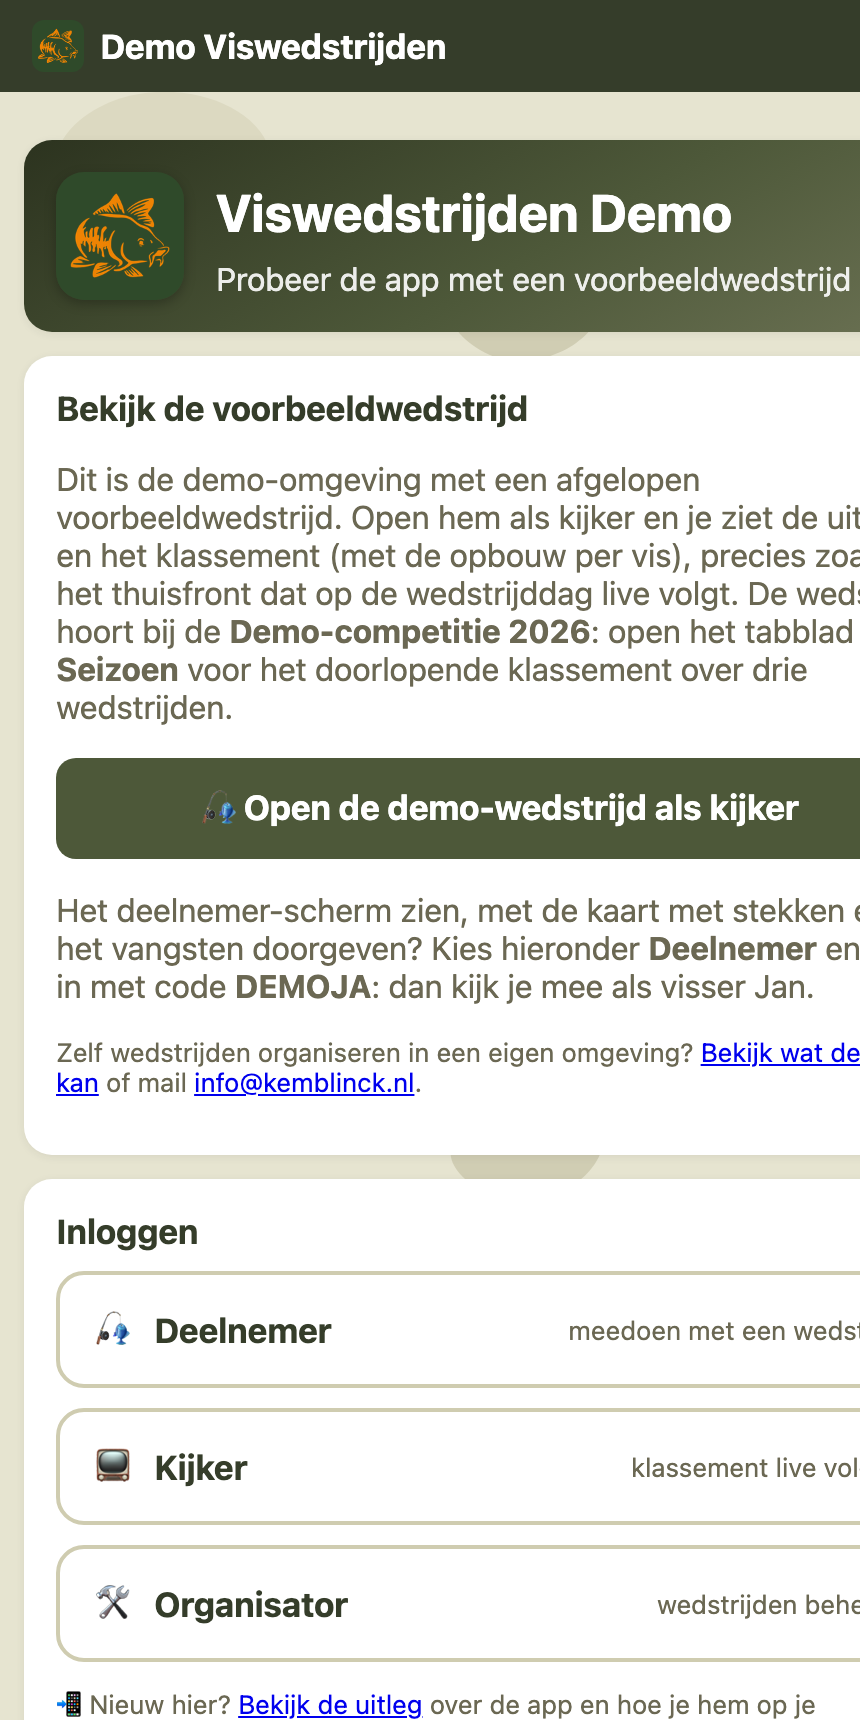
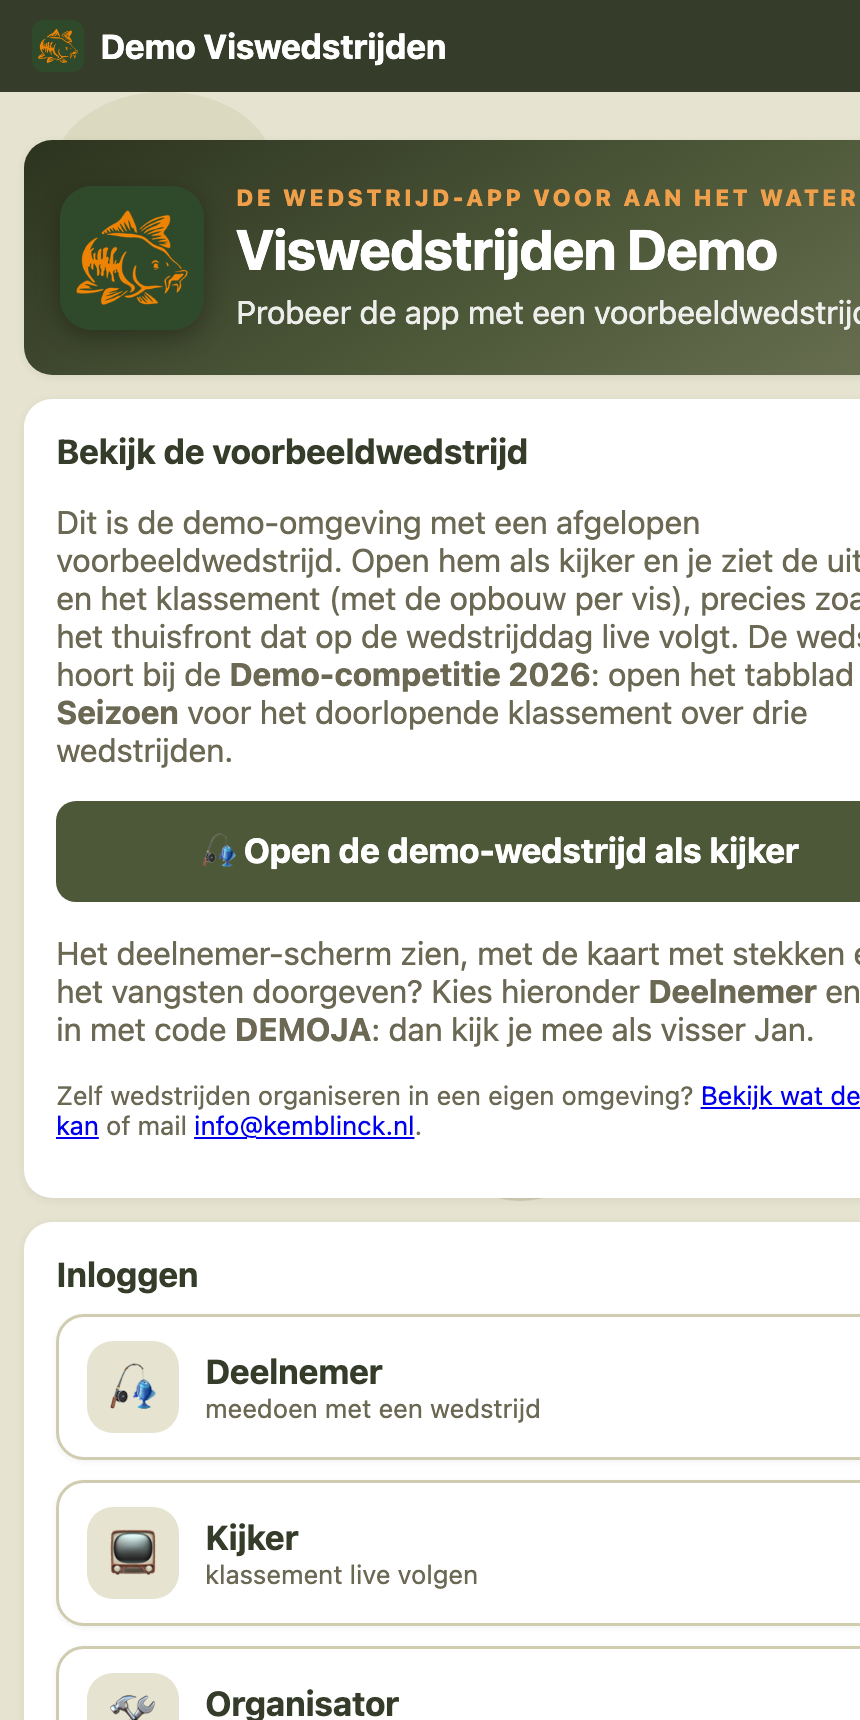
v52: 3D-dieptekaartweergave in de app + startschermen in landing-stijl
- NPHV kaart-tab: knop 'Bekijk de dieptekaart in 3D' opent
  docs/nphv/kaart-3d.jpg via het bestaande data-groot-lightboxmechanisme
- tenant-startschermen (nphv + demo): hero met eyebrow en groter logo,
  rolknoppen als kaarten met icoon-chip, titel + subtekst en chevron
- nieuwe_tenant.py: 3D-knop gestript zonder kaart-3d.jpg, meegekopieerd
  bij --kaart-van (getest met wegwerptenant)
- landing: scherm-home.png ververst met het nieuwe startscherm

Changed region(s): [[0.0302, 0.0924, 1.0, 1.0]]

diff --git a/docs/styles.css b/docs/styles.css
@@ -44,10 +44,12 @@ input, select { font-size: 16px; }
   margin: 12px 0; box-shadow: 0 1px 4px rgba(42,39,33,.08);
 }
 .hero { background: linear-gradient(150deg, #2c331f, #4d5839 55%, #6d7355); color: #fff;
-  display: flex; align-items: center; gap: 16px; }
-.hero-logo { width: 64px; height: 64px; border-radius: 14px; flex: 0 0 auto;
-  box-shadow: 0 2px 6px rgba(0,0,0,.25); }
-.hero h1 { margin: 4px 0 8px; font-size: 26px; line-height: 1.2; }
+  display: flex; align-items: center; gap: 16px; padding: 22px 18px; }
+.hero-logo { width: 72px; height: 72px; border-radius: 16px; flex: 0 0 auto;
+  box-shadow: 0 4px 12px rgba(0,0,0,.3); }
+.hero-eyebrow { display: block; font-size: 11.5px; font-weight: 800; letter-spacing: .13em;
+  text-transform: uppercase; color: #f0a04b; margin-bottom: 3px; }
+.hero h1 { margin: 0 0 6px; font-size: 28px; line-height: 1.15; letter-spacing: -.4px; }
 .hero .sub { margin: 0; opacity: .9; }
 
 h1 { font-size: 22px; margin: 0 0 6px; color: inherit; }
@@ -131,6 +133,8 @@ label input, label select { margin-top: 5px; font-weight: 400; }
 .kaart-houder { width: 100%; overflow-x: auto; border-radius: 10px; -webkit-overflow-scrolling: touch; }
 .kaart-houder svg { min-width: 700px; width: 100%; height: auto; display: block; }
 .kaart-legenda { display: flex; gap: 14px; flex-wrap: wrap; margin-top: 8px; font-size: 13px; color: var(--grijs); }
+.kaart-3d-rij { margin: 10px 0 0; }
+.kaart-3d-rij .btn { font-size: 14px; }
 .dot { display: inline-block; width: 12px; height: 12px; border-radius: 50%; border: 1.5px solid var(--kaart-blauw); vertical-align: -1px; }
 .dot.vrij { background: #fff; }
 .dot.bezet { background: var(--rood); border-color: var(--rood); }
@@ -259,13 +263,23 @@ textarea:focus { outline: 2px solid var(--blauw-mid); border-color: var(--blauw-
 /* rolkeuze op de homepagina */
 .rolknoppen { display: flex; flex-direction: column; gap: 10px; margin-bottom: 12px; }
 .rolknop {
-  display: flex; align-items: center; gap: 12px; width: 100%;
-  padding: 16px 18px; border: 2px solid var(--zand-donker); border-radius: 14px;
-  background: #fff; cursor: pointer; font-size: 17px; text-align: left;
+  display: flex; align-items: center; gap: 13px; width: 100%;
+  padding: 12px 14px; border: 1.5px solid var(--zand-donker); border-radius: 14px;
+  background: #fff; cursor: pointer; text-align: left;
+  box-shadow: 0 1px 3px rgba(42, 39, 33, .06);
 }
-.rolknop b { color: var(--blauw-donker); }
-.rolknop span { margin-left: auto; color: var(--grijs); font-size: 13px; text-align: right; }
+.rolknop:hover { border-color: var(--blauw-mid); }
+.rol-icoon {
+  flex: 0 0 auto; width: 46px; height: 46px; border-radius: 13px;
+  background: var(--zand); display: flex; align-items: center; justify-content: center;
+  font-size: 23px;
+}
+.rol-tekst { display: flex; flex-direction: column; gap: 1px; min-width: 0; }
+.rol-tekst b { color: var(--blauw-donker); font-size: 17px; }
+.rol-tekst small { color: var(--grijs); font-size: 13px; }
+.rol-pijl { margin-left: auto; color: var(--blauw); font-size: 24px; font-weight: 700; }
 .rolknop.actief { border-color: var(--blauw); background: var(--blauw-licht); }
+.rolknop.actief .rol-icoon { background: #ffffff; }
 .rolform { margin-top: 4px; }
 
 /* organisatie-omgeving */

diff --git a/docs/nphv/index.html b/docs/nphv/index.html
@@ -39,6 +39,7 @@
   <section class="hero card">
     <img src="/icon-192.png" alt="" class="hero-logo">
     <div>
+      <span class="hero-eyebrow">De wedstrijd-app voor aan het water</span>
       <h1>Viswedstrijden NPHV</h1>
       <p class="sub">Nootdorps Pijnackerse Hengelsportvereniging · Plas van der Ende</p>
     </div>
@@ -47,9 +48,9 @@
   <section class="card">
     <h2>Inloggen</h2>
     <div class="rolknoppen">
-      <button class="rolknop" data-rol="deelnemer">🎣 <b>Deelnemer</b><span>meedoen met een wedstrijd</span></button>
-      <button class="rolknop" data-rol="kijker">📺 <b>Kijker</b><span>klassement live volgen</span></button>
-      <button class="rolknop" data-rol="org">🛠️ <b>Organisator</b><span>wedstrijden beheren</span></button>
+      <button class="rolknop" data-rol="deelnemer"><span class="rol-icoon" aria-hidden="true">🎣</span><span class="rol-tekst"><b>Deelnemer</b><small>meedoen met een wedstrijd</small></span><span class="rol-pijl" aria-hidden="true">›</span></button>
+      <button class="rolknop" data-rol="kijker"><span class="rol-icoon" aria-hidden="true">📺</span><span class="rol-tekst"><b>Kijker</b><small>klassement live volgen</small></span><span class="rol-pijl" aria-hidden="true">›</span></button>
+      <button class="rolknop" data-rol="org"><span class="rol-icoon" aria-hidden="true">🛠️</span><span class="rol-tekst"><b>Organisator</b><small>wedstrijden beheren</small></span><span class="rol-pijl" aria-hidden="true">›</span></button>
     </div>
 
     <form id="form-deelnemer" class="rolform" hidden>
@@ -294,6 +295,7 @@
         <span><i class="dot mijn"></i> mijn stek</span>
         <span><i class="dot keuze"></i> selectie</span>
       </div>
+      <p class="kaart-3d-rij"><button type="button" class="btn klein-btn" data-groot="kaart-3d.jpg">⛰️ Bekijk de dieptekaart in 3D</button></p>
       <div id="stek-actie" hidden>
         <button id="btn-kies" class="btn primary breed" disabled></button>
         <button id="btn-kies-annuleer" class="btn breed" hidden>Annuleer (terug naar Beheer)</button>

diff --git a/docs/demo/index.html b/docs/demo/index.html
@@ -39,6 +39,7 @@
   <section class="hero card">
     <img src="/icon-192.png" alt="" class="hero-logo">
     <div>
+      <span class="hero-eyebrow">De wedstrijd-app voor aan het water</span>
       <h1>Viswedstrijden Demo</h1>
       <p class="sub">Probeer de app met een voorbeeldwedstrijd</p>
     </div>
@@ -63,9 +64,9 @@
   <section class="card">
     <h2>Inloggen</h2>
     <div class="rolknoppen">
-      <button class="rolknop" data-rol="deelnemer">🎣 <b>Deelnemer</b><span>meedoen met een wedstrijd</span></button>
-      <button class="rolknop" data-rol="kijker">📺 <b>Kijker</b><span>klassement live volgen</span></button>
-      <button class="rolknop" data-rol="org">🛠️ <b>Organisator</b><span>wedstrijden beheren</span></button>
+      <button class="rolknop" data-rol="deelnemer"><span class="rol-icoon" aria-hidden="true">🎣</span><span class="rol-tekst"><b>Deelnemer</b><small>meedoen met een wedstrijd</small></span><span class="rol-pijl" aria-hidden="true">›</span></button>
+      <button class="rolknop" data-rol="kijker"><span class="rol-icoon" aria-hidden="true">📺</span><span class="rol-tekst"><b>Kijker</b><small>klassement live volgen</small></span><span class="rol-pijl" aria-hidden="true">›</span></button>
+      <button class="rolknop" data-rol="org"><span class="rol-icoon" aria-hidden="true">🛠️</span><span class="rol-tekst"><b>Organisator</b><small>wedstrijden beheren</small></span><span class="rol-pijl" aria-hidden="true">›</span></button>
     </div>
 
     <form id="form-deelnemer" class="rolform" hidden>

diff --git a/docs/app.js b/docs/app.js
@@ -1,7 +1,7 @@
 /* Viswedstrijden Plas van der Ende - app-logica */
 'use strict';
 
-const APP_VERSION = 51; // gelijk houden met ELKE tenant-version.json (docs/*/version.json); verhogen bij elke release
+const APP_VERSION = 52; // gelijk houden met ELKE tenant-version.json (docs/*/version.json); verhogen bij elke release
 
 /* ---------- helpers ---------- */
 const $ = (sel) => document.querySelector(sel);

diff --git a/tools/nieuwe_tenant.py b/tools/nieuwe_tenant.py
@@ -86,6 +86,12 @@ def bouw_bestanden(doel, slug, kort, volledig, water, stekken, zones, kaart_van)
     t = vervang(t, '<h1>Viswedstrijden NPHV</h1>', f'<h1>Viswedstrijden {kh}</h1>', 1, 'index.html h1')
     t = vervang(t, '<p class="sub">Nootdorps Pijnackerse Hengelsportvereniging · Plas van der Ende</p>',
                 f'<p class="sub">{sub}</p>', 1, 'index.html sub')
+    # 3D-knop alleen behouden als de bronkaart ook een kaart-3d.jpg heeft
+    knop_3d = ('      <p class="kaart-3d-rij"><button type="button" class="btn klein-btn" '
+               'data-groot="kaart-3d.jpg">⛰️ Bekijk de dieptekaart in 3D</button></p>\n')
+    heeft_3d = kaart_van and os.path.isfile(os.path.join(DOCS, kaart_van, 'kaart-3d.jpg'))
+    if not heeft_3d:
+        t = vervang(t, knop_3d, '', 1, 'index.html 3d-knop (geen kaart-3d.jpg voor deze tenant)')
     schrijf(os.path.join(doel, 'index.html'), t)
 
     # --- instructies.html ---
@@ -139,11 +145,13 @@ def bouw_bestanden(doel, slug, kort, volledig, water, stekken, zones, kaart_van)
     if kaart_van:
         shutil.copy(os.path.join(DOCS, kaart_van, 'kaart.js'), os.path.join(doel, 'kaart.js'))
         print(f'kaart.js gekopieerd van docs/{kaart_van}/')
-        # fotokaart-onderlaag (sinds v51): hoort bij kaart.js, anders 404 in de SVG
-        bronfoto = os.path.join(DOCS, kaart_van, 'dieptekaart.jpg')
-        if os.path.isfile(bronfoto):
-            shutil.copy(bronfoto, os.path.join(doel, 'dieptekaart.jpg'))
-            print(f'dieptekaart.jpg meegekopieerd van docs/{kaart_van}/ (zet hem ook in de sw.js SHELL)')
+        # fotokaart-onderlaag (v51) + 3D-weergave (v52): horen bij kaart.js
+        for extra in ('dieptekaart.jpg', 'kaart-3d.jpg'):
+            bronfoto = os.path.join(DOCS, kaart_van, extra)
+            if os.path.isfile(bronfoto):
+                shutil.copy(bronfoto, os.path.join(doel, extra))
+                print(f'{extra} meegekopieerd van docs/{kaart_van}/'
+                      + (' (zet hem ook in de sw.js SHELL)' if extra == 'dieptekaart.jpg' else ''))
     else:
         gen_standaardkaart.bouw(slug, stekken, zones, os.path.join(doel, 'kaart.js'))
 

diff --git a/CLAUDE.md b/CLAUDE.md
@@ -118,6 +118,19 @@ nog in de generator als terugval maar worden niet getekend.
 `dieptekaart.jpg` zit in de nphv-sw.js SHELL; nieuwe_tenant.py
 `--kaart-van nphv` kopieert hem mee.
 
+**3D-weergave (v52):** knop "⛰️ Bekijk de dieptekaart in 3D" onder de
+kaart-legenda in docs/nphv/index.html opent `docs/nphv/kaart-3d.jpg`
+(3D-render met stekken/zones, uit kaart-proef-tools) via het bestaande
+data-groot-lightboxmechanisme in app.js (geen JS-wijziging). Bewust NIET in
+de sw-SHELL (laadt on demand). nieuwe_tenant.py stript de knop voor tenants
+zonder kaart-3d.jpg en kopieert hem mee bij --kaart-van.
+
+**Startscherm-restyle (v52):** tenant-home in landing-stijl: hero met
+eyebrow ("De wedstrijd-app voor aan het water", generiek = scaffold-veilig),
+groter logo, rolknoppen als kaarten met icoon-chip (.rol-icoon), titel +
+subtekst (.rol-tekst) en chevron (.rol-pijl); markup in BEIDE tenant-indexen
+identiek, CSS in styles.css.
+
 De vector-oevercontour is nagetekend van de originele NPHV-scan (`Dieptekaart plas.pdf`):
 - `tools/shape.py` = oevercontour in 4800px-scanruimte (bron van waarheid)
 - `tools/gen_svg.py` = standalone kaart (`plas-van-der-ende-dieptekaart.svg`)